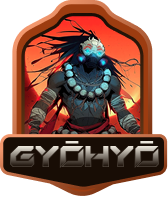
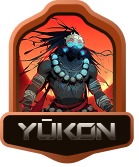
Fix/names fix (#6)
* style: update text styles and layout in faction and immortal forges cards

* feat: add level-based rank assets, update leaderboard UI layout, and integrate new faction rank images

diff --git a/lib/features/leaderboard/ui/widgets/cards/faction_leaderboard_card.dart b/lib/features/leaderboard/ui/widgets/cards/faction_leaderboard_card.dart
@@ -24,7 +24,6 @@ class CardConfig {
   static const Size factionImageSize = Size(77.59, 90);
   static const Size factionAnimationSize = Size(30, 90);
   static const Size scoreBoxSize = Size(100, 45);
-  static const double scoreWidth = 140;
   static const double trophySize = 14;
 
   static const TextStyle mainTextStyle = subheadH1Medium;
@@ -174,39 +173,42 @@ class FactionLeaderboardCard extends StatelessWidget {
                 ),
                 child: SizedBox(
                   width: CardConfig.width,
-                  child: Row(
-                    children: [
-                      Expanded(
-                        child: FactionContainer(
-                          faction: firstFaction.faction,
-                          isUserFaction: firstFaction.faction == userFaction,
-                          isWinning: isFirstWinning,
-                        ),
-                      ),
-
-                      Center(
-                        child: SizedBox(
-                          width: CardConfig.scoreWidth,
-                          child: ScoreWidget(
-                            firstFactionScore: firstScore,
-                            secondFactionScore: secondScore,
-                            winnerTitle: firstScore == secondScore
-                                ? 'No leader'
-                                : (firstScore > secondScore
-                                      ? firstFaction.faction.title(t)
-                                      : secondFaction.faction.title(t)),
+                  child: Padding(
+                    padding: const EdgeInsets.symmetric(horizontal: 12),
+                    child: Row(
+                      children: [
+                        Expanded(
+                          child: FactionContainer(
+                            faction: firstFaction.faction,
+                            isUserFaction: firstFaction.faction == userFaction,
+                            isWinning: isFirstWinning,
                           ),
                         ),
-                      ),
 
-                      Expanded(
-                        child: FactionContainer(
-                          faction: secondFaction.faction,
-                          isUserFaction: secondFaction.faction == userFaction,
-                          isWinning: isSecondWinning,
+                        Center(
+                          child: Padding(
+                            padding: const EdgeInsets.symmetric(horizontal: 12),
+                            child: ScoreWidget(
+                              firstFactionScore: firstScore,
+                              secondFactionScore: secondScore,
+                              winnerTitle: firstScore == secondScore
+                                  ? 'No leader'
+                                  : (firstScore > secondScore
+                                        ? firstFaction.faction.title(t)
+                                        : secondFaction.faction.title(t)),
+                            ),
+                          ),
                         ),
-                      ),
-                    ],
+
+                        Expanded(
+                          child: FactionContainer(
+                            faction: secondFaction.faction,
+                            isUserFaction: secondFaction.faction == userFaction,
+                            isWinning: isSecondWinning,
+                          ),
+                        ),
+                      ],
+                    ),
                   ),
                 ),
               ),
@@ -237,8 +239,16 @@ class _FactionLeaderboardCardBase extends StatelessWidget {
               backgroundColor: appTheme.beige900,
               fillGradient: appTheme.factionCardFillGradient,
               strokeGradient: appTheme.strokeTag,
+              drawStroke: false,
             ),
-            child: child,
+            foregroundPainter: NotchedFactionLeaderboardCard(
+              strokeGradient: appTheme.strokeTag,
+              drawFill: false,
+            ),
+            child: ClipPath(
+              clipper: FactionCardClipper(),
+              child: child,
+            ),
           ),
         ),
       ),

diff --git a/lib/features/leaderboard/ui/widgets/users/immortal_forges_card.dart b/lib/features/leaderboard/ui/widgets/users/immortal_forges_card.dart
@@ -125,15 +125,14 @@ class ImmortalForcesCard extends StatelessWidget {
                     if (ranks[4] != null) const _RankLabel(rank: 5, alignment: Alignment(0.9, 0.2)),
                     if (ranks[3] != null) const _RankLabel(rank: 4, alignment: Alignment(-0.9, 0.2)),
 
-                    if (ranks.isNotEmpty)
-                      const Center(
-                        child: GradientLine(),
-                      ),
+                    const Center(
+                      child: GradientLine(),
+                    ),
 
                     if (userRank1 != null) ...[
                       Center(
                         child: LeaderBoardAvatar(
-                          size: const Size(88, 88),
+                          size: const Size(84, 84),
                           borderGradientColors: getGradientByRank(1, context),
                           imageUrl: userRank1.avatarUrl,
                         ),
@@ -178,18 +177,20 @@ class _RankLabel extends StatelessWidget {
       alignment: alignment,
       child: IntrinsicWidth(
         child: ConstrainedBox(
-          constraints: const BoxConstraints(minWidth: 107, minHeight: 33, maxHeight: 33),
+          constraints: const BoxConstraints(minWidth: 108, minHeight: 33, maxHeight: 33),
           child: CustomPaint(
             painter: RhombusPainter(
               strokeGradientColors: isMainLeader ? [const Color(0xFFD4AD38), const Color(0xFF5D4B17)] : null,
             ),
             child: Padding(
               padding: const .symmetric(horizontal: 12),
-              child: Center(
+              child: Align(
+                alignment: const Alignment(0, -0.1),
                 child: Text(
                   topFiveTitlesByRank(rank),
                   style: subheadH5Medium.copyWith(
                     color: context.appTheme.beige100,
+                    fontSize: 14,
                     height: 1,
                   ),
                   strutStyle: subheadH5Medium.strut,

diff --git a/lib/features/leaderboard/ui/widgets/painters/notched_faction_leaderboard_card.dart b/lib/features/leaderboard/ui/widgets/painters/notched_faction_leaderboard_card.dart
@@ -44,44 +44,51 @@ class NotchedFactionLeaderboardCard extends CustomPainter {
   NotchedFactionLeaderboardCard({
     required this.strokeGradient,
     this.backgroundColor,
-
     this.fillGradient,
+    this.drawFill = true,
+    this.drawStroke = true,
   });
 
   final Color? backgroundColor;
   final Gradient? fillGradient;
   final Gradient strokeGradient;
+  final bool drawFill;
+  final bool drawStroke;
 
   @override
   void paint(Canvas canvas, Size size) {
     final scaledPath = FactionPathFactory.getNotchedPath(size);
     final bounds = scaledPath.getBounds();
 
-    if (backgroundColor != null) {
+    if (drawFill && backgroundColor != null) {
       final fillPaint = Paint()
         ..color = backgroundColor!
         ..style = PaintingStyle.fill;
       canvas.drawPath(scaledPath, fillPaint);
     }
 
-    if (fillGradient != null) {
+    if (drawFill && fillGradient != null) {
       final gradientPaint = Paint()
         ..shader = fillGradient!.createShader(bounds)
         ..style = PaintingStyle.fill;
       canvas.drawPath(scaledPath, gradientPaint);
     }
 
-    final strokePaint = Paint()
-      ..shader = strokeGradient.createShader(bounds)
-      ..style = PaintingStyle.stroke
-      ..strokeWidth = 1.0;
-    canvas.drawPath(scaledPath, strokePaint);
+    if (drawStroke) {
+      final strokePaint = Paint()
+        ..shader = strokeGradient.createShader(bounds)
+        ..style = PaintingStyle.stroke
+        ..strokeWidth = 1.0;
+      canvas.drawPath(scaledPath, strokePaint);
+    }
   }
 
   @override
   bool shouldRepaint(covariant NotchedFactionLeaderboardCard oldDelegate) {
     return oldDelegate.backgroundColor != backgroundColor ||
         oldDelegate.fillGradient != fillGradient ||
-        oldDelegate.strokeGradient != strokeGradient;
+        oldDelegate.strokeGradient != strokeGradient ||
+        oldDelegate.drawFill != drawFill ||
+        oldDelegate.drawStroke != drawStroke;
   }
 }

diff --git a/lib/features/quiz/domain/enums/faction.dart b/lib/features/quiz/domain/enums/faction.dart
@@ -6,8 +6,7 @@ import 'package:reforge/generated/i18n/translations.g.dart';
 enum Faction {
   gakki,
   gyohyo,
-  seiren
-  ;
+  seiren;
 
   static Faction? fromId(int? factionId) {
     if (factionId == null) return null;
@@ -83,14 +82,43 @@ extension FactionExtension on Faction {
     }
   }
 
-  String rankCardAsset() {
-    switch (this) {
-      case Faction.gakki:
-        return Assets.images.png.gakkiRankCard.path;
-      case Faction.gyohyo:
-        return Assets.images.png.gyohyoRankCard.path;
-      case Faction.seiren:
-        return Assets.images.png.seirenRankCard.path;
-    }
+  String rankCardAsset(int level) {
+    final factionAssets = switch (this) {
+      Faction.gakki => [
+        Assets.images.png.hojoshi1,
+        Assets.images.png.hojoshi2,
+        Assets.images.png.hojoshi3,
+        Assets.images.png.hojoshi4,
+        Assets.images.png.hojoshi5,
+        Assets.images.png.hojoshi6,
+      ],
+      Faction.gyohyo => [
+        Assets.images.png.yukon1,
+        Assets.images.png.yukon2,
+        Assets.images.png.yukon3,
+        Assets.images.png.yukon4,
+        Assets.images.png.yukon5,
+        Assets.images.png.yukon6,
+      ],
+      Faction.seiren => [
+        Assets.images.png.nagisabe1,
+        Assets.images.png.nagisabe2,
+        Assets.images.png.nagisabe3,
+        Assets.images.png.nagisabe4,
+        Assets.images.png.nagisabe5,
+        Assets.images.png.nagisabe6,
+      ],
+    };
+
+    final index = switch (level) {
+      < 10 => 0,
+      < 20 => 1,
+      < 30 => 2,
+      < 50 => 3,
+      < 70 => 4,
+      _ => 5,
+    };
+
+    return factionAssets[index].path;
   }
 }

diff --git a/lib/features/home/controller/cubit/home_cubit.dart b/lib/features/home/controller/cubit/home_cubit.dart
@@ -51,10 +51,10 @@ class HomeCubit extends Cubit<HomeState> {
   }
 
   Future<void> loadStatsByPeriod(StatsPeriod period, {bool isInitial = false}) async {
-    if (!isInitial && state.statsMap.containsKey(period)) {
-      emit(state.copyWith(period: period));
-      return;
-    }
+    // if (!isInitial && state.statsMap.containsKey(period)) {
+    //   emit(state.copyWith(period: period));
+    //   return;
+    // }
 
     if (!isInitial) {
       emit(state.copyWith(isStatsLoading: true, period: period));
@@ -93,12 +93,12 @@ class HomeCubit extends Cubit<HomeState> {
 
   RankEntity _createRank(OnboardedUser? user, [UserStats? stats]) {
     final faction = user?.mainFaction ?? Faction.gakki;
-    final japanRankName = user?.japanRank ?? t.home.rank_label;
-    final rankName = user?.rank ?? t.tiers.beginner;
+    final japanRankName = user?.japanRank ?? t.home.default_japanese_rank_name;
+    final rankName = user?.rank ?? t.home.default_rank_name;
 
     if (stats != null) {
       return RankEntity(
-        imageAsset: faction.rankCardAsset(),
+        imageAsset: faction.rankCardAsset(stats.level),
         japanRankName: japanRankName,
         rankName: rankName,
         faction: faction,

diff --git a/lib/features/achievements/data/models/user_ranks_dto.dart b/lib/features/achievements/data/models/user_ranks_dto.dart
@@ -10,7 +10,7 @@ part 'user_ranks_dto.g.dart';
 sealed class UserRankData with _$UserRankData {
   const factory UserRankData({
     required int id,
-    required String username,
+    required String? username,
     required RankInfo currentRank,
     required List<ProgressionStep> progression,
   }) = _UserRankData;
@@ -44,7 +44,8 @@ sealed class ProgressionStep with _$ProgressionStep {
 
   RankEntity toDomain(Faction faction) {
     return RankEntity(
-      imageAsset: faction.rankCardAsset(),
+      //TODO(Masayoshi): 0 for now cause we dont know real user rank here
+      imageAsset: faction.rankCardAsset(0),
       japanRankName: japanRank,
       rankName: rank,
       faction: faction,

diff --git a/lib/features/achievements/domain/entities/rank_entity.dart b/lib/features/achievements/domain/entities/rank_entity.dart
@@ -33,12 +33,12 @@ class RankEntity {
     return RankEntity.mockWith(t, userFaction);
   }
 
-  factory RankEntity.mockWith(Translations translations, [Faction? userFaction]) {
+  factory RankEntity.mockWith(Translations t, [Faction? userFaction]) {
     final faction = userFaction ?? Faction.gakki;
     return RankEntity(
-      imageAsset: faction.rankCardAsset(),
-      japanRankName: translations.home.rank_label,
-      rankName: translations.tiers.intermediate,
+      imageAsset: faction.rankCardAsset(1),
+      japanRankName: t.home.default_japanese_rank_name,
+      rankName: t.home.default_rank_name,
       faction: faction,
       lvl: 1,
       xp: 10,

diff --git a/lib/features/home/ui/widgets/faction_widget.dart b/lib/features/home/ui/widgets/faction_widget.dart
@@ -14,13 +14,13 @@ class FactionWidget extends StatelessWidget {
       clipper: SharpFactionClipper(),
       child: Container(
         color: context.appTheme.beige400,
-        padding: const .only(top: 4, bottom: 6.5, left: 5, right: 48),
+        padding: const .only(top: 4, bottom: 4, left: 8, right: 48),
         child: Text(
           faction,
 
           textAlign: .center,
 
-          style: avatarBaseStyle.copyWith(color: context.appTheme.beige900),
+          style: avatarBaseStyle.copyWith(color: context.appTheme.beige800),
         ),
       ),
     );

diff --git a/lib/features/leaderboard/ui/widgets/cards/faction_container.dart b/lib/features/leaderboard/ui/widgets/cards/faction_container.dart
@@ -60,10 +60,15 @@ class FactionContainer extends StatelessWidget {
           ),
         ),
 
-        Text(
-          '$text faction',
-          style: CardConfig.thirtyTextStyle.copyWith(
-            color: context.appTheme.beige100,
+        FittedBox(
+          child: Text(
+            '$text faction',
+            maxLines: 1,
+            overflow: .ellipsis,
+            textAlign: .center,
+            style: CardConfig.thirtyTextStyle.copyWith(
+              color: context.appTheme.beige100,
+            ),
           ),
         ),
       ],

diff --git a/lib/features/leaderboard/data/models/leaderboard_user.dart b/lib/features/leaderboard/data/models/leaderboard_user.dart
@@ -63,10 +63,8 @@ extension CurrentUserRankX on CurrentUserRank {
   LeaderboardUserEntity toDomain() {
     final username = name ?? '';
 
-    final realRank = (rank - 1).clamp(1, rank);
-
     return LeaderboardUserEntity(
-      rank: realRank,
+      rank: rank,
       username: username,
       avatarUrl: avatarUrl,
       xp: progress.totalXp.toInt(),

diff --git a/lib/features/achievements/domain/mock/generate_ranks.dart b/lib/features/achievements/domain/mock/generate_ranks.dart
@@ -21,7 +21,7 @@ class RanksGenerator {
       final currentXp = (maxXp * (0.2 + (i * 0.07))).toInt().clamp(0, maxXp);
 
       return RankEntity(
-        imageAsset: faction.rankCardAsset(),
+        imageAsset: faction.rankCardAsset(level),
         japanRankName: t.home.rank_label,
         rankName: names[i % names.length],
         faction: faction,
